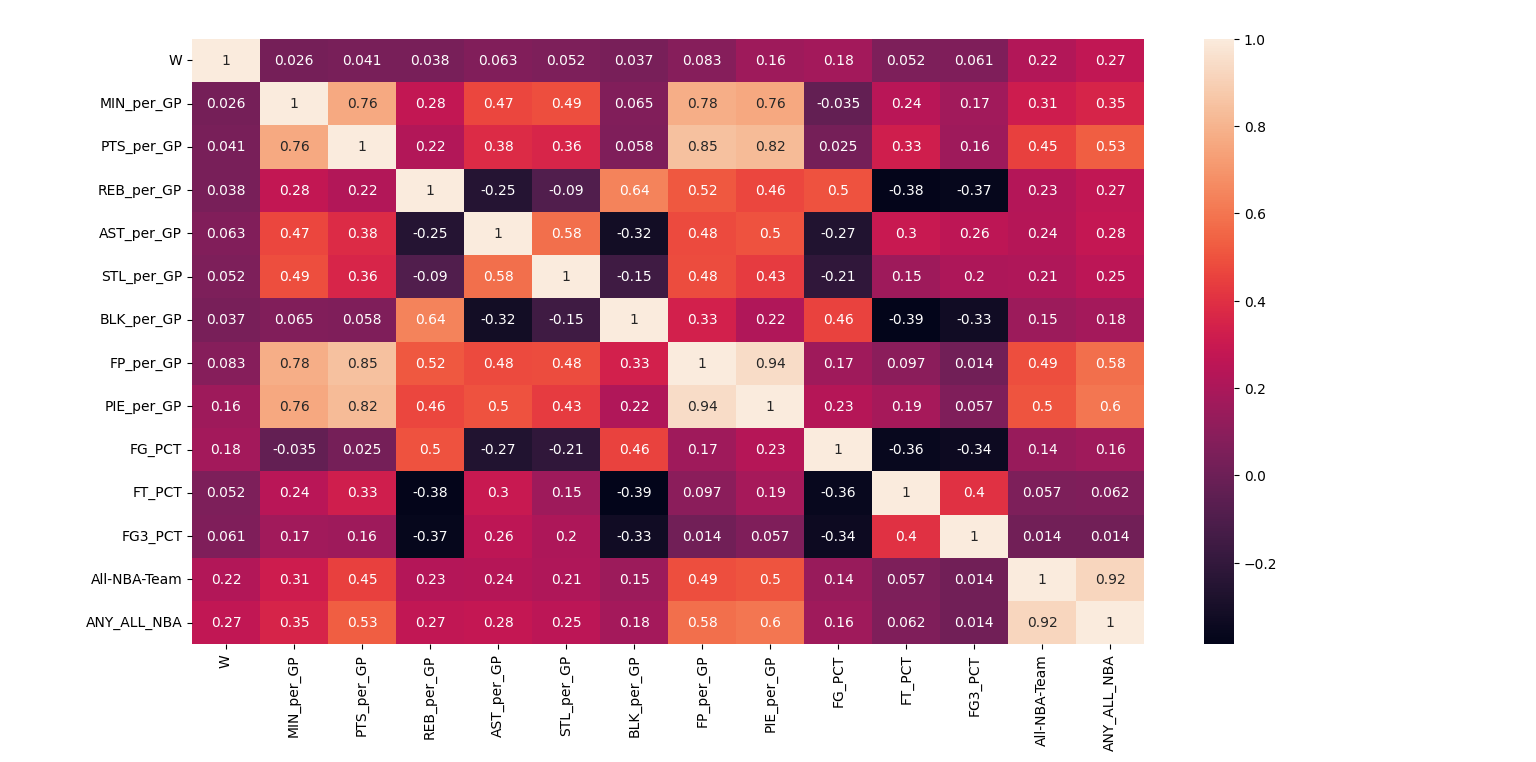
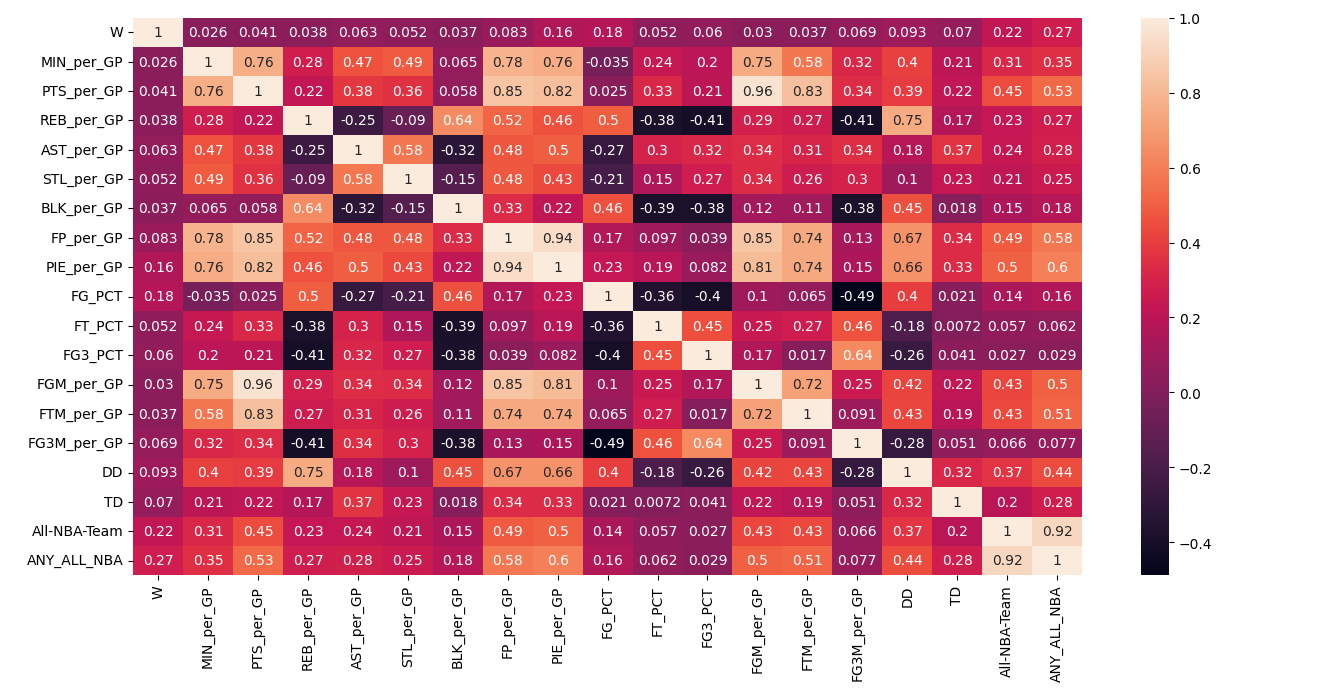
Added function to save prediction as JSON and calculate points for a prediction

diff --git a/award_prediction.py b/award_prediction.py
@@ -10,6 +10,85 @@ from sklearn.ensemble import RandomForestClassifier
 pd.set_option('display.max_columns', None)
 pd.set_option('display.max_rows', None)
 
+# Define the metrics for the awards
+def award_metrics(prediction, real_values, rookie=False):
+    points = 0
+    correct_teams = {1: 0, 2: 0, 3: 0}
+    if rookie:
+        num_teams = 2
+        team_names = {1: "first rookie", 2: "second rookie"}
+    else:
+        num_teams = 3
+        team_names = {1: "first", 2: "second", 3: "third"}
+
+    # Calculate points
+    for team in range(1, num_teams + 1):
+        for player in prediction[f'{team_names[team]} all-nba team']:
+            if player in real_values[f'{team_names[team]} all-nba team']:
+                points += 10
+                correct_teams[team] += 1
+            if team < 3 and player in real_values[f'{team_names[team + 1]} all-nba team']:
+                points += 8
+            if not rookie:
+                if team < 2 and player in real_values[f'{team_names[team + 2]} all-nba team']:
+                    points += 6
+            if team > 1 and player in real_values[f'{team_names[team - 1]} all-nba team']:
+                points += 8
+            if not rookie:
+                if team > 2 and player in real_values[f'{team_names[team - 2]} all-nba team']:
+                    points += 6
+
+    # Calculate bonus points
+    for key, value in correct_teams.items():
+        if value == 5:
+            points += 40
+        elif value == 4:
+            points += 20
+        elif value == 3:
+            points += 10
+        elif value == 2:
+            points += 5
+
+    return points
+
+def prediction_to_dict(prediction, names, mvp, rookie=False):
+    if rookie:
+        prediction_dict = {"first rookie all-nba team": [],
+                           "second rookie all-nba team": []}
+        players = []
+        team_names = {1: "first rookie", 2: "second rookie"}
+        top_players = 10
+        num_teams = 2
+    else:
+        prediction_dict = {"first all-nba team": [mvp],
+                            "second all-nba team": [],
+                            "third all-nba team": []}
+        players = [mvp]
+        team_names = {1: "first", 2: "second", 3: "third"}
+        top_players = 15
+        num_teams = 3
+
+    pred_np = np.array(prediction)
+    top_predictions = {}
+    # Get the players with highest possibility for each team
+    for team in range(1, num_teams + 1):
+        sorted_indices = np.argsort(pred_np[:, team])[::-1]
+        top_indices = sorted_indices[:top_players]
+        top_predictions[team] = top_indices
+
+    # Add the players to the dictionary
+    for team in range(1, num_teams + 1):
+        for player in top_predictions[team]:
+            if names[player] not in players:
+                players.append(names[player])
+                prediction_dict[f"{team_names[team]} all-nba team"].append(names[player])
+            if len(prediction_dict[f"{team_names[team]} all-nba team"]) == 5:
+                break
+
+    return prediction_dict
+
+
+
 def all_nba_training():
     # Load the data
     seasonal_stats = pd.read_csv('data/seasonal_stats_with_awards.csv')
@@ -105,7 +184,8 @@ def all_nba_training():
 
     # Create correlation matrix
     corr_features = ['W', 'MIN_per_GP', 'PTS_per_GP', 'REB_per_GP', 'AST_per_GP', 'STL_per_GP', 'BLK_per_GP',
-                     'FP_per_GP', 'PIE_per_GP', 'FG_PCT', 'FT_PCT', 'FG3_PCT', 'All-NBA-Team', 'ANY_ALL_NBA']
+                     'FP_per_GP', 'PIE_per_GP', 'FG_PCT', 'FT_PCT', 'FG3_PCT', 'FGM_per_GP', 'FTM_per_GP',
+                     'FG3M_per_GP', 'DD', 'TD', 'All-NBA-Team', 'ANY_ALL_NBA']
     correlation_matrix = normalized_seasons[corr_features].corr()
     sns.heatmap(correlation_matrix, annot=True)
     plt.show()
@@ -130,49 +210,58 @@ def all_nba_training():
     y_val = X_val['All-NBA-Team']
 
     # Drop unnecessary columns
-    columns_to_drop = ['SEASON', 'SEASON_START', 'MATCH_TYPE', 'PLAYER_NAME', 'All-NBA-Team', 'ANY_ALL_NBA',
+    columns_to_drop = ['SEASON', 'SEASON_START', 'MATCH_TYPE', 'All-NBA-Team', 'ANY_ALL_NBA', 'PLAYER_NAME',
                         'ANY_ALL_ROOKIE', 'All-Defensive-Team', 'All-Rookie-Team', 'Finals-MVP', 'PLAYER_ID',
-                       'ROY', '6MOY', 'MIP']
+                       'MVP', 'ROY', '6MOY', 'MIP']
 
     X_train = X_train.drop(columns_to_drop, axis=1)
-    X_val = X_val.drop(columns_to_drop, axis=1)
+    #X_val = X_val.drop(columns_to_drop, axis=1)
     season2324 = normalized_season2324.drop(columns_to_drop, axis=1)
 
     # Train the Random Forest Classifier model for all All-NBA teams
     RFC_model = RandomForestClassifier(n_estimators=100, random_state=42)
     RFC_model.fit(X_train, y_train)
-    RFC_predictions = RFC_model.predict(X_val)
-    RFC_confusion_matrix = confusion_matrix(y_val, RFC_predictions)
-    RFC_true_positives = np.diag(RFC_confusion_matrix)
-    print('Random Forest Classifier ', RFC_confusion_matrix)
-    print('Random Forest Classifier ', RFC_true_positives)
+    #RFC_predictions = RFC_model.predict_proba(X_val)
+    for season in val_seasons:
+        season_data = X_val.loc[X_val['SEASON_START'] == season]
+        names = season_data['PLAYER_NAME'].to_numpy()
+        real_nba_teams = {"first all-nba team": season_data['PLAYER_NAME'][season_data['All-NBA-Team'] == 1].values,
+                          "second all-nba team": season_data['PLAYER_NAME'][season_data['All-NBA-Team'] == 2].values,
+                          "third all-nba team": season_data['PLAYER_NAME'][season_data['All-NBA-Team'] == 3].values}
+        mvp = season_data['PLAYER_NAME'][season_data['MVP'] == 1].values[0]
+        season_data = season_data.drop(columns_to_drop, axis=1)
+        prediction = prediction_to_dict(RFC_model.predict_proba(season_data), names, mvp)
+        print(f'Season: {season}')
+        print(prediction)
+        print(award_metrics(prediction, real_nba_teams))
 
-    # Train the Random Forest Classifier model for any All-NBA team
-    RFC_model_any = RandomForestClassifier(n_estimators=100, random_state=42)
-    RFC_model_any.fit(X_train, y_train_any)
-    RFC_predictions_any = RFC_model_any.predict(X_val)
-    RFC_confusion_matrix_any = confusion_matrix(y_val_any, RFC_predictions_any)
-    RFC_true_positives_any = np.diag(RFC_confusion_matrix_any)
-    print('Random Forest Classifier Any ', RFC_confusion_matrix_any)
-    print('Random Forest Classifier Any ', RFC_true_positives_any)
-
-    # Train the Logistic Regression model for all All-NBA teams
-    LR_model = LogisticRegression(random_state=42)
-    LR_model.fit(X_train, y_train)
-    LR_predictions = LR_model.predict(X_val)
-    LR_confusion_matrix = confusion_matrix(y_val, LR_predictions)
-    LR_true_positives = np.diag(LR_confusion_matrix)
-    print('Logistic Regression ', LR_confusion_matrix)
-    print('Logistic Regression ', LR_true_positives)
-
-    # Train the Logistic Regression model for any All-NBA team
-    LR_model_any = LogisticRegression(random_state=42)
-    LR_model_any.fit(X_train, y_train_any)
-    LR_predictions_any = LR_model_any.predict(X_val)
-    LR_confusion_matrix_any = confusion_matrix(y_val_any, LR_predictions_any)
-    LR_true_positives_any = np.diag(LR_confusion_matrix_any)
-    print('Logistic Regression Any ', LR_confusion_matrix_any)
-    print('Logistic Regression Any ', LR_true_positives_any)
+    # # Train the Random Forest Classifier model for any All-NBA team
+    # RFC_model_any = RandomForestClassifier(n_estimators=100, random_state=42)
+    # RFC_model_any.fit(X_train, y_train_any)
+    # RFC_predictions_any = RFC_model_any.predict(X_val)
+    # RFC_confusion_matrix_any = confusion_matrix(y_val_any, RFC_predictions_any)
+    # RFC_true_positives_any = np.diag(RFC_confusion_matrix_any)
+    # print('Random Forest Classifier Any ', RFC_confusion_matrix_any)
+    # print('Random Forest Classifier Any ', RFC_true_positives_any)
+    #
+    # # Train the Logistic Regression model for all All-NBA teams
+    # LR_model = LogisticRegression(random_state=42)
+    # LR_model.fit(X_train, y_train)
+    # LR_predictions = LR_model.predict(X_val)
+    # LR_confusion_matrix = confusion_matrix(y_val, LR_predictions)
+    # LR_true_positives = np.diag(LR_confusion_matrix)
+    # print('Logistic Regression ', LR_confusion_matrix)
+    # print('Logistic Regression ', LR_true_positives)
+    #
+    # # Train the Logistic Regression model for any All-NBA team
+    # LR_model_any = LogisticRegression(random_state=42)
+    # LR_model_any.fit(X_train, y_train_any)
+    # LR_predictions_any = LR_model_any.predict(X_val)
+    # LR_confusion_matrix_any = confusion_matrix(y_val_any, LR_predictions_any)
+    # print(LR_predictions_any)
+    # LR_true_positives_any = np.diag(LR_confusion_matrix_any)
+    # print('Logistic Regression Any ', LR_confusion_matrix_any)
+    # print('Logistic Regression Any ', LR_true_positives_any)
 
 if __name__ == '__main__':
     all_nba_training()

diff --git a/README.md b/README.md
@@ -86,6 +86,8 @@ The data about awards was downloaded for each player and information about the f
 - number of Player of the Month awards,
 - number of Rookie of the Month awards.
 
+#### 2.3.1. Awards and All-NBA teams
+
 The correlation between the awards and the selection to All-NBA teams since 1988-89 season was checked and that data is shown in the table below (for POTM, POTW it meant that the player won at least one award during the season):
 
 | Award | 1st All-NBA Team | 2nd All-NBA Team | 3rd All-NBA Team | Not selected |
@@ -106,12 +108,56 @@ The data shows that the MVPs are always selected to 1st All-NBA team, All-Star G
 
 The statistics were averaged for each player to get his average impact on the game per match (by doing so the number of games player played doesn't matter). 
 
-Also because basketball and players were evolving over the years, the statistics were normalized so that the player with highest certain statistic would have 1 and the rest of the players would have proportionally lower values.
+Also because basketball and players were evolving over the years, the statistics were normalized so that the player with highest certain statistic in specific season would have value 1 and the rest of the players would have proportionally lower values.
 
-However this could cause problems with players who played just a few games during a season and had very high statistics in those games. To eliminate the issue, after displaying data for all players who were selected to All-NBA teams, the following filters were applied:
+However this could cause problems with players who played just a few games during a season and had very high statistics in those games.
+
+### 2.4.1. Eliminating players with low statistics for All-NBA teams prediction
+To eliminate the issue, after displaying data for all players who were selected to All-NBA teams (graph below), the following filters were applied:
 - `Games Played` >= 40,
 - `Minutes` played during season >= 1250,
 - `Points` scored during season >= 333,
 - `Fantasy Points` scored during season >= 1250.
 
+![Statistics of players selected to All-NBA teams](/media/1_All_NBA_players_through_years_stats.png)
+
 By doing so, the data for seasons 1988-89 till 2023-23 was reduced from 16711 to 6074 players. For season 2023-24 there was also a requirement for `Games Played` >= 65 and that caused that only 146 were eligible for All-NBA teams.
+
+### 2.4.2. Eliminating players with low statistics for Rookie All-NBA teams prediction
+
+### 2.4.3. Statistics correlation for All-NBA teams prediction
+
+After normalizing the data, the correlation between the normalized statistics and the selection to All-NBA teams was checked. The correlation matrix is shown below:
+
+![Correlation matrix for All-NBA teams prediction](/media/2_All_NBA_players_normalized_stats_correlation.png)
+
+Based on the correlation matrix, the highest importance for the selection to All-NBA teams have the following statistics:
+- `Player Impact Estimate`,
+- `Fantasy Points`,
+- `Points`,
+- `Free Throws Made`,
+- `Field Goals Made`.
+- 
+High correlation between those above statistics and being selected to All-NBA teams is understandable as those statistics (apart from Free Throws made) directly show impact on the game. Free Throws Made may be correlated because good players usually play more and create more actions so the possiblity of being fouled is higher.
+
+The least correlated statistics are:
+- `Free Throw Percentage`,
+- `3PT Field Goals Percentage`,
+- `3 PT Field Goals Made`.
+
+The low correlation between 3PT Shot statistics is probably caused by the fact that the Centers and Power Forwards usually don't shoot 3PT shots.
+
+## 3. Metric
+
+The following metric was used to evaluate the model (proposed by the course lecturer):
+ - `+10 points` for each player in correct team,
+ - `+8 points` for each player that is classified in a team that's number differ by 1 from the correct one,
+ - `+6 points` for each player that is classified in a team that's number differ by 2 from the correct one,
+ - `+5 points` if 2 players are in correct team,
+ - `+10 points` if 3 players are in correct team,
+ - `+20 points` if 4 players are in correct team,
+ - `+40 points` if 5 players are in correct team.
+
+That means that the maximum number of points for a season is $5 \cdot (5 \cdot 10 + 40) = 450$.
+
+Using metrics like accuracy would be misleading because the number of players not selected to any of the All-NBA teams is much higher than those who got selected. An example could be to classify every of the 146 players eligible to be selected to All-NBA teams in 2023-24 season as not selected and the accuracy would be 0.89.  
